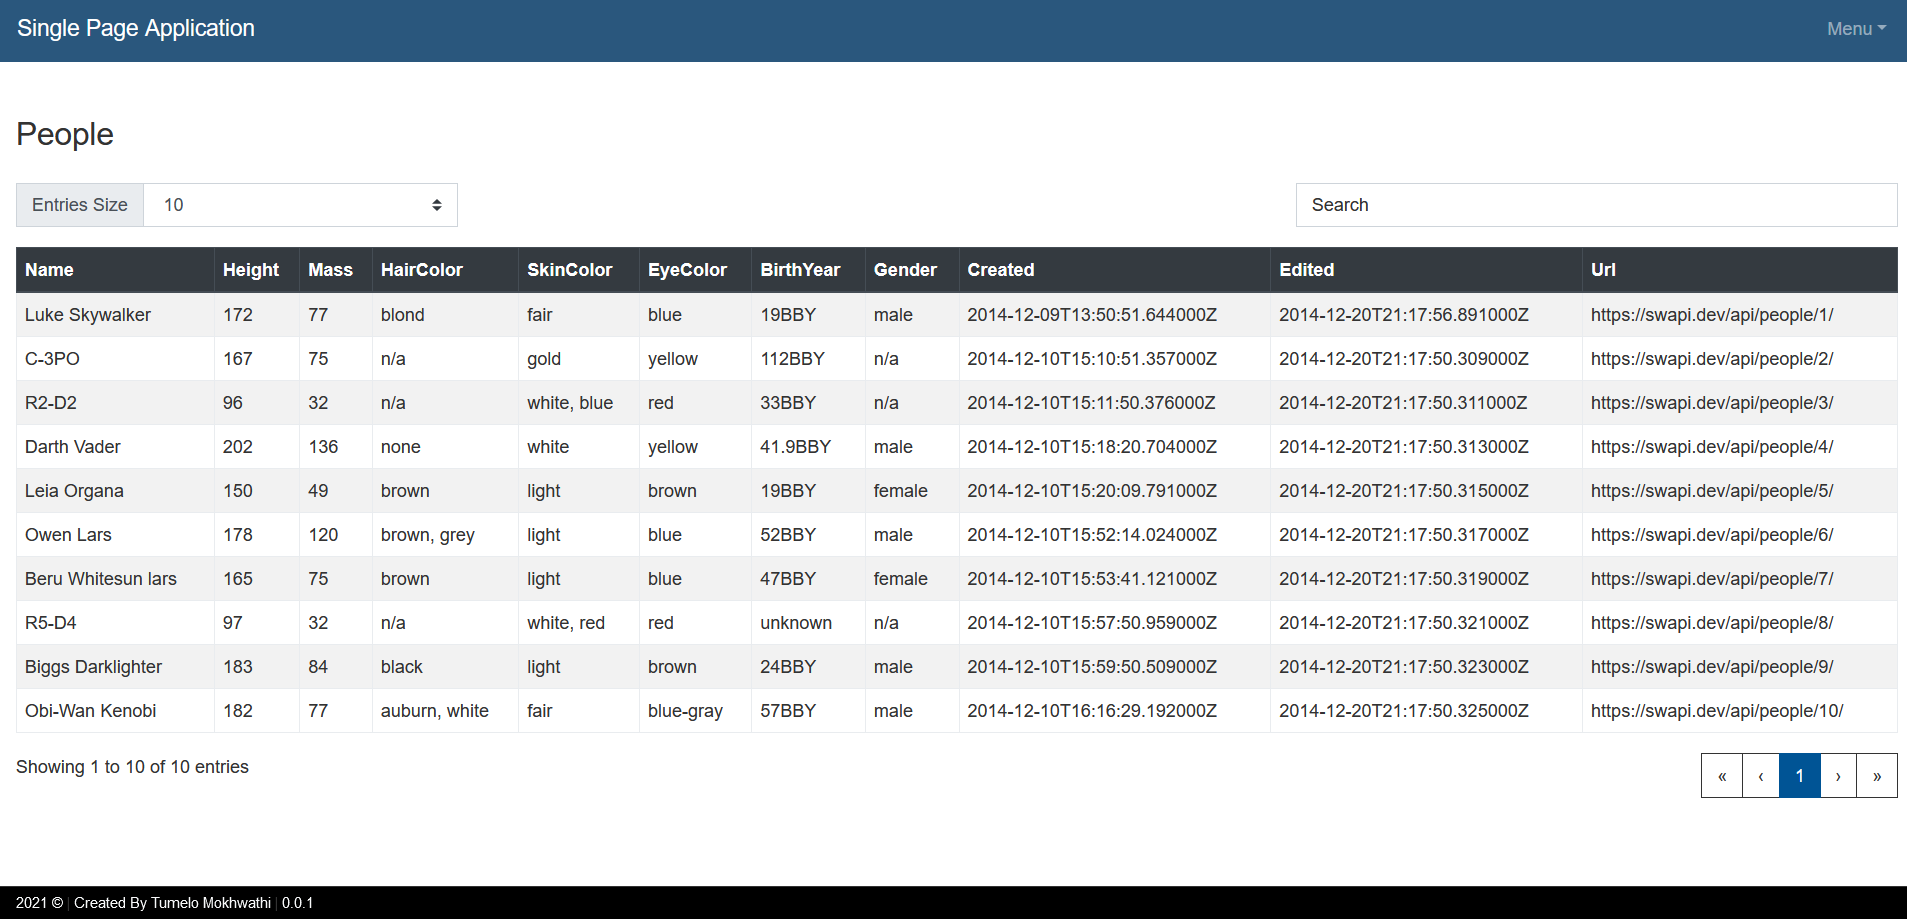
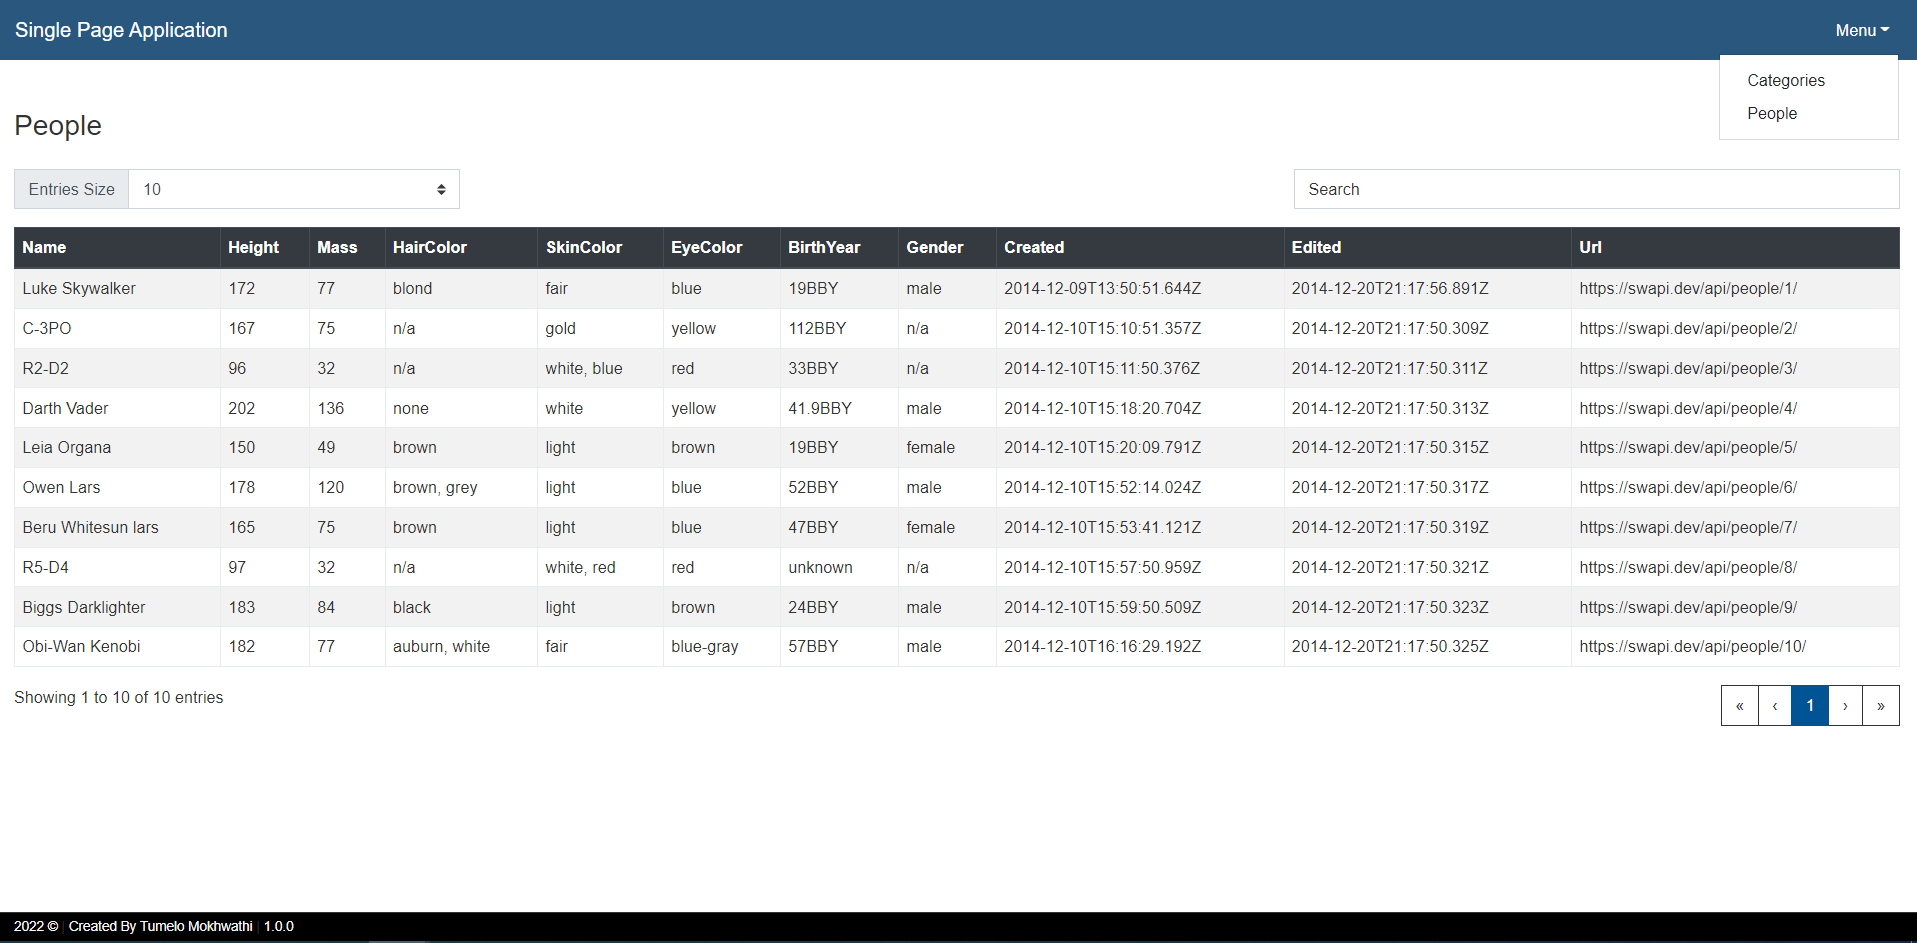
updated

diff --git a/src/store/modules/categoriesStore.js b/src/store/modules/categoriesStore.js
@@ -4,6 +4,7 @@ import GettersUtility from '@/store/utilities/getters';
 import MutationsUtility from '@/store/utilities/mutations';
 
 const BASE_URL = `${process.env.VUE_APP_PROXY_BASE}`;
+const CATEGORIES_BASE_URL = 'https://api.chucknorris.io/jokes';
 
 const M_SET_CLEAR = 'Reset';
 const M_SET_CATEGORY = 'SetCategory';
@@ -35,7 +36,7 @@ const actions = {
     Axios(requestObj)
       .then((response) => {
         context.commit(M_SET_DATA,
-          response.data.map((name, index) => ({
+          response.data.result.map((name, index) => ({
             name,
             index,
           })));
@@ -52,7 +53,7 @@ const actions = {
     context.commit(M_SET_CATEGORY, null);
 
     const requestObj = {
-      url: `${BASE_URL}/random?category=${category}`,
+      url: `${CATEGORIES_BASE_URL}/random?category=${category}`,
       method: 'get',
       headers: {
         'Content-Type': 'application/json',

diff --git a/src/views/People.vue b/src/views/People.vue
@@ -38,22 +38,22 @@ export default {
           sortable: true,
         },
         {
-          key: 'hair_color',
+          key: 'hairColor',
           label: 'HairColor',
           sortable: true,
         },
         {
-          key: 'skin_color',
+          key: 'skinColor',
           label: 'SkinColor',
           sortable: true,
         },
         {
-          key: 'eye_color',
+          key: 'eyeColor',
           label: 'EyeColor',
           sortable: true,
         },
         {
-          key: 'birth_year',
+          key: 'birthYear',
           label: 'BirthYear',
           sortable: true,
         },

diff --git a/src/store/modules/peopleStore.js b/src/store/modules/peopleStore.js
@@ -32,7 +32,8 @@ const actions = {
 
     Axios(requestObj)
       .then((response) => {
-        context.commit(M_SET_DATA, response.data.results);
+        console.log(response);
+        context.commit(M_SET_DATA, response.data.result);
       })
       .catch(() => {
         throw Error('Could not fetch data');
